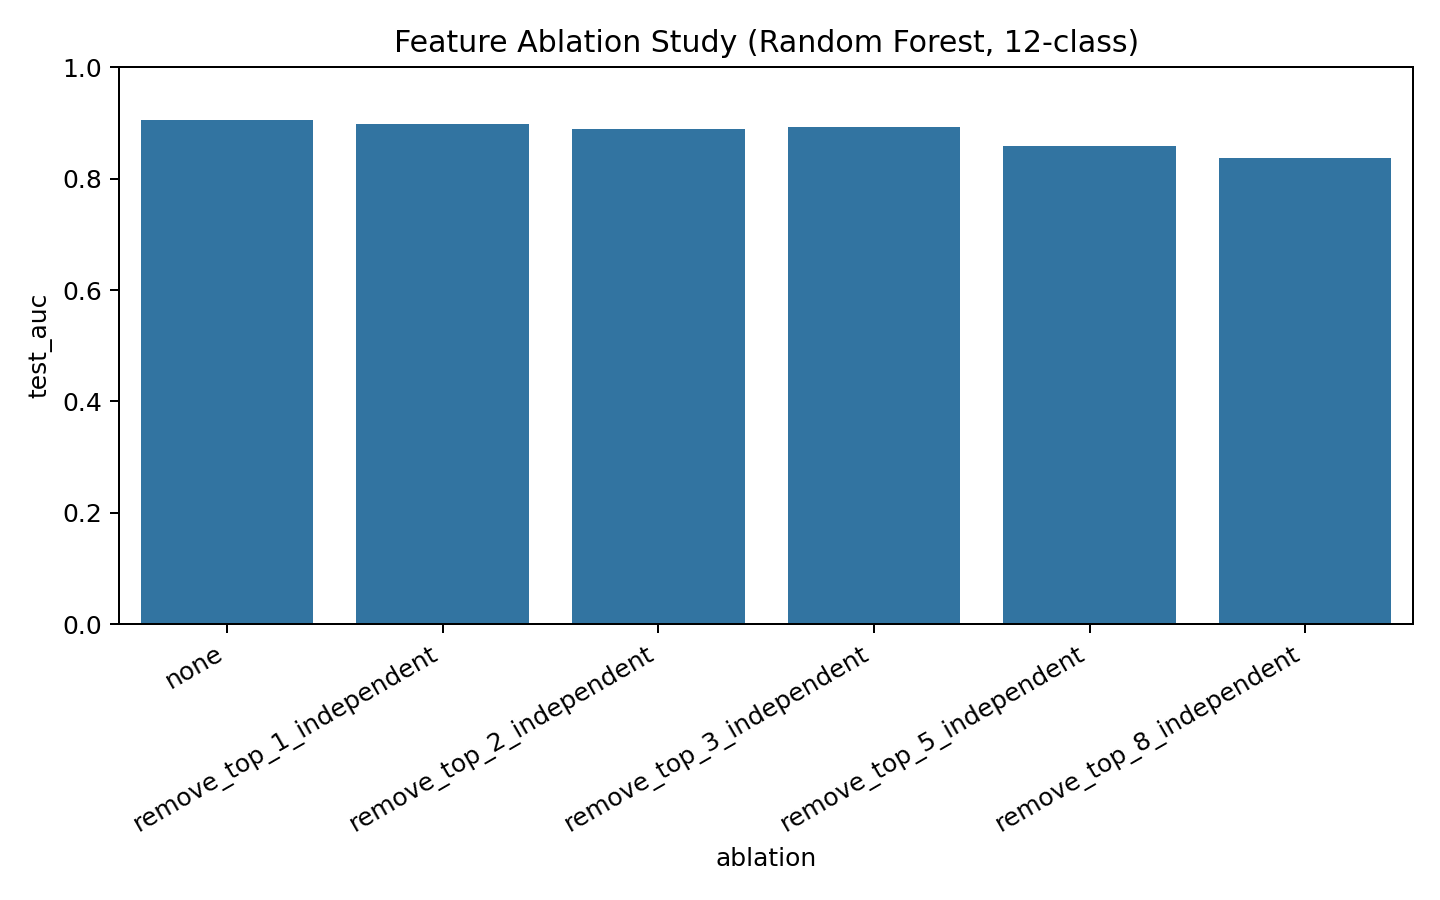
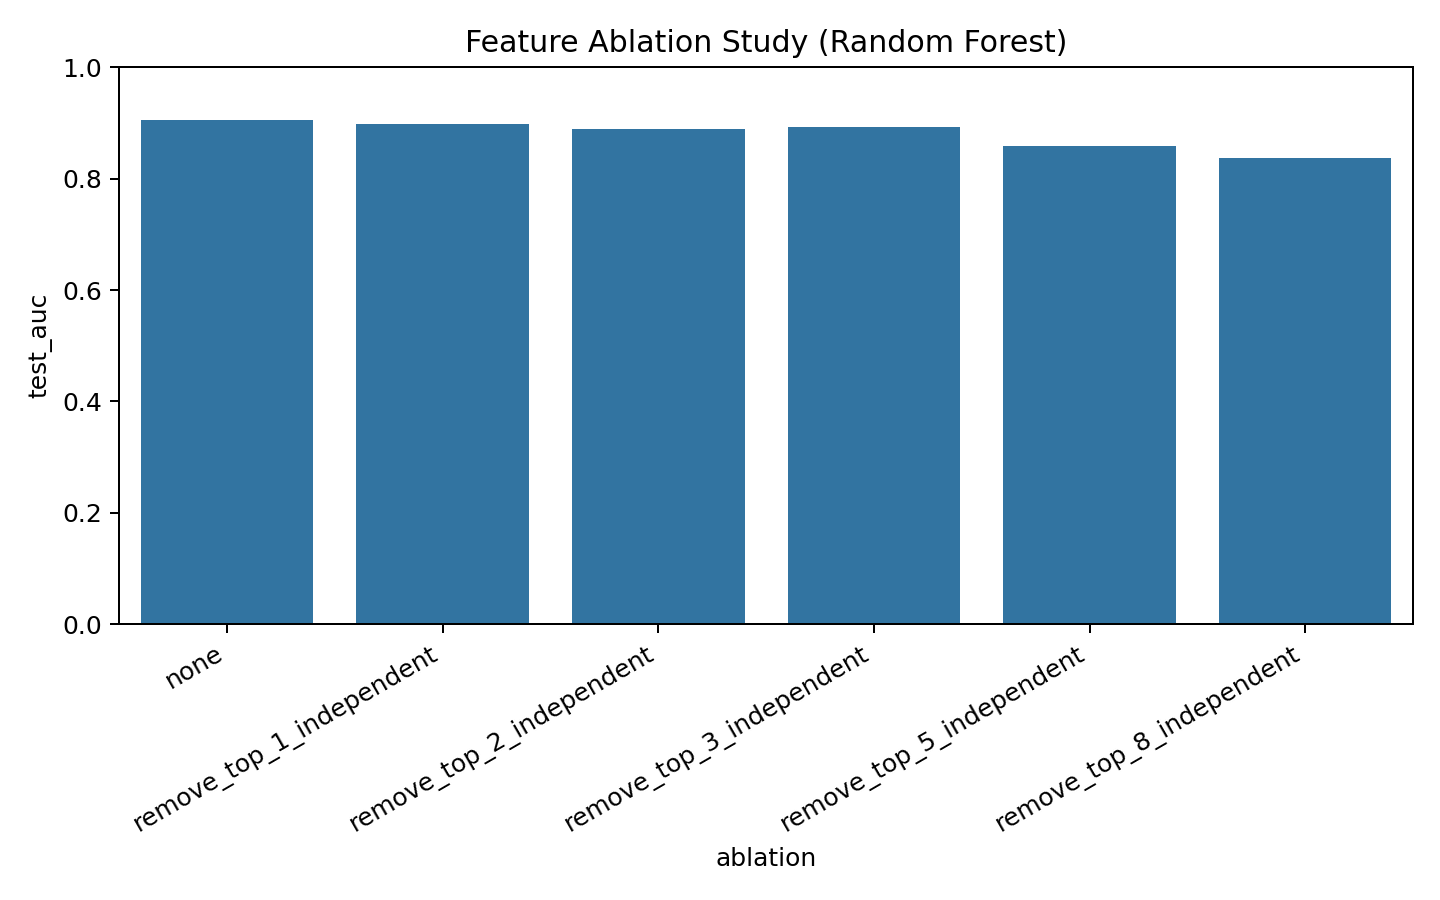
Fix stale figure titles, bump figure DPI to 300, export citation-order set
- Fix leftover "12-class" titles (Supplementary S1-S3 confusion matrices,
  feature-ablation figure) left over from an earlier 12-compound-class
  pipeline iteration; dataset is 10 MOA classes throughout the manuscript.
- Fix self-numbered "Supplementary Figure S1" baked into the correlation
  matrix title; it is actually cited as S4, numbering is now left to the
  manuscript caption only, matching the other three S-figures.
- Bump all matplotlib savefig calls from 180 to 300 dpi.
- Add src/export_highres_figures.py: regenerates every figure reproducible
  from already-saved/cached data (ROC curves, seed distribution, calibration,
  PCA batch effects, confusion matrices, correlation matrix, feature
  ablation) at 300 dpi with no retraining, verifying each against the
  published Table 2/5/8 numbers before export. Figures 1, 2, 8, 9, 10 have
  no generating script in this repo / need retraining on raw images not
  available locally, and are flagged rather than silently left out.
- Export all 18 figures individually, named by citation order, to
  final_figures/export_highres/.

Changed region(s): [[0.2812, 0.0311, 0.7812, 0.0622]]

diff --git a/src/export_highres_figures.py b/src/export_highres_figures.py
@@ -1,0 +1,179 @@
+"""Regenerate every figure that can be reproduced from already-saved/cached
+data (no raw images, no retraining) at 300 dpi, then export each figure as
+its own file named by citation order for journal submission.
+
+Regenerable from cached data: Figures 3, 4, 5, 6 (ROC, from saved test proba
+arrays), 7 (seed distribution, from multiseed_resnet_results.csv), 11
+(calibration, from saved test proba arrays), 12 (feature ablation, from the
+per-channel feature table), 13-14 (PCA batch effects, from the per-channel
+feature table), and Supplementary S1-S3 (confusion matrices) and S4
+(correlation matrix).
+
+NOT regenerable here (left at their existing resolution, flagged at the end):
+Figure 1 (pipeline diagram) and Figure 2 (detection overlays) have no
+generating script in this repo; Figures 8, 9, 10 (training/validation loss
+curves) need per-epoch loss history that was never cached, only the raw
+BBBC021 images + full retraining would reproduce them.
+"""
+import sys
+from pathlib import Path
+
+sys.path.insert(0, str(Path(__file__).resolve().parent))
+
+import numpy as np
+import pandas as pd
+import matplotlib.pyplot as plt
+import seaborn as sns
+from sklearn.preprocessing import label_binarize
+from sklearn.metrics import roc_curve, auc as sk_auc
+
+from full_dataset_advanced_pipeline import (
+    SEED, set_seed, split_indices_grouped, fit_classical_models,
+    FEATURE_COLS_PER_CHANNEL, save_confusion_matrix, feature_ablation,
+    save_feature_correlation, save_calibration_plot, save_pca_batch_effects,
+    multiclass_auc,
+)
+
+ROOT = Path(__file__).resolve().parent.parent
+DATA_DIR = ROOT / "data" / "raw"
+RES_DIR = ROOT / "results_summary"
+FIG_DIR = ROOT / "final_figures"
+EXPORT_DIR = ROOT / "final_figures" / "export_highres"
+EXPORT_DIR.mkdir(exist_ok=True)
+DPI = 300
+
+df = pd.read_csv(ROOT / "final_tables" / "full_dataset_features_1500plus.csv")
+class_names = sorted(df["class_name"].unique().tolist())
+class_to_idx = {c: i for i, c in enumerate(class_names)}
+y = df["class_name"].map(class_to_idx).astype(int).values
+n_classes = len(class_names)
+
+set_seed(SEED)
+idx_train, idx_val, idx_test = split_indices_grouped(df, y, group_col="compound", seed=SEED)
+y_test = y[idx_test]
+assert np.array_equal(y_test, np.load(DATA_DIR / "y_test_grouped.npy")), "split mismatch"
+present_classes = sorted(np.unique(y_test).tolist())
+y_bin = label_binarize(y_test, classes=list(range(n_classes)))
+
+proba = {
+    "Logistic Regression": np.load(DATA_DIR / "final_logistic_regression_proba.npy"),
+    "Random Forest": np.load(DATA_DIR / "final_random_forest_proba.npy"),
+    "CNN (scratch)": np.load(DATA_DIR / "final_cnn_scratch_proba.npy"),
+    "ResNet-18 (scratch)": np.load(DATA_DIR / "final_resnet18_scratch_proba.npy"),
+    "ResNet-18 (pretrained)": np.load(DATA_DIR / "final_resnet18_pretrained_proba.npy"),
+}
+for name, want in {"Logistic Regression": 0.866, "Random Forest": 0.904, "CNN (scratch)": 0.560,
+                    "ResNet-18 (scratch)": 0.884, "ResNet-18 (pretrained)": 0.959}.items():
+    got = round(multiclass_auc(y_test, proba[name]), 3)
+    assert abs(got - want) < 0.0015, f"{name} proba array does not match Table 2 ({got} vs {want})"
+
+
+def mean_curve(p):
+    all_fpr = np.unique(np.concatenate([roc_curve(y_bin[:, c], p[:, c])[0] for c in present_classes]))
+    mean_tpr = np.zeros_like(all_fpr)
+    for c in present_classes:
+        fpr_c, tpr_c, _ = roc_curve(y_bin[:, c], p[:, c])
+        mean_tpr += np.interp(all_fpr, fpr_c, tpr_c)
+    mean_tpr /= len(present_classes)
+    return all_fpr, mean_tpr
+
+
+def plot_macro(models, out_path, title):
+    fig, ax = plt.subplots(figsize=(7, 6))
+    colors = plt.cm.tab10(np.linspace(0, 1, 10))
+    for mi, (name, p) in enumerate(models.items()):
+        all_fpr, mean_tpr = mean_curve(p)
+        legend_auc = multiclass_auc(y_test, p)
+        ax.plot(all_fpr, mean_tpr, label=f"{name} (macro-OvR AUC={legend_auc:.3f})", color=colors[mi], linewidth=2)
+    ax.plot([0, 1], [0, 1], "k--", linewidth=1)
+    ax.set_xlabel("False Positive Rate"); ax.set_ylabel("True Positive Rate"); ax.set_title(title)
+    ax.legend(fontsize=8, loc="lower right")
+    plt.tight_layout(); plt.savefig(out_path, dpi=DPI); plt.close()
+
+
+def plot_per_class(p, out_path, title):
+    fig, ax = plt.subplots(figsize=(7, 6))
+    colors = plt.cm.tab10(np.linspace(0, 1, 10))
+    for ci, c in enumerate(present_classes):
+        fpr_c, tpr_c, _ = roc_curve(y_bin[:, c], p[:, c])
+        auc_c = sk_auc(fpr_c, tpr_c)
+        ax.plot(fpr_c, tpr_c, color=colors[ci], alpha=0.7, linewidth=1, label=f"{class_names[c]} (AUC={auc_c:.3f})")
+    all_fpr, mean_tpr = mean_curve(p)
+    legend_auc = multiclass_auc(y_test, p)
+    ax.plot(all_fpr, mean_tpr, color="black", linewidth=2.5, label=f"macro-average (AUC={legend_auc:.3f})")
+    ax.plot([0, 1], [0, 1], "k--", linewidth=1)
+    ax.set_xlabel("False Positive Rate"); ax.set_ylabel("True Positive Rate"); ax.set_title(title)
+    ax.legend(fontsize=7, loc="lower right")
+    plt.tight_layout(); plt.savefig(out_path, dpi=DPI); plt.close()
+
+
+# Figures 3-6 (ROC)
+plot_macro({"Logistic Regression": proba["Logistic Regression"], "Random Forest": proba["Random Forest"]},
+           EXPORT_DIR / "Figure_03.png", "Macro-averaged ROC: Feature-Based Classifiers (6 evaluable classes)")
+plot_per_class(proba["Random Forest"], EXPORT_DIR / "Figure_04.png",
+               "Random Forest: Per-Class ROC with Macro-Average Overlay")
+plot_macro({"CNN (scratch)": proba["CNN (scratch)"], "ResNet-18 (scratch)": proba["ResNet-18 (scratch)"],
+            "ResNet-18 (pretrained)": proba["ResNet-18 (pretrained)"]},
+           EXPORT_DIR / "Figure_05.png", "Macro-averaged ROC: Deep-Learning Models (6 evaluable classes)")
+plot_per_class(proba["ResNet-18 (pretrained)"], EXPORT_DIR / "Figure_06.png",
+               "ResNet-18 (Pretrained): Per-Class ROC with Macro-Average Overlay")
+print("Figures 3-6 exported at 300 dpi.")
+
+# Figure 7 (seed distribution) from cached per-seed results
+seeds_df = pd.read_csv(RES_DIR / "multiseed_resnet_results.csv")
+fig, axes = plt.subplots(1, 2, figsize=(11, 5))
+fig.suptitle("ResNet-18 performance across 5 random seeds (1, 7, 42, 123, 999)")
+for ax, metric, ylabel in [(axes[0], "accuracy", "Accuracy"), (axes[1], "macro_auc", "Macro-OvR AUC")]:
+    for mi, model in enumerate(["resnet18_scratch", "resnet18_pretrained"]):
+        sub = seeds_df[seeds_df["model"] == model]
+        color = "indianred" if model == "resnet18_scratch" else "mediumseagreen"
+        ax.scatter([mi] * len(sub), sub[metric], color=color, s=80, zorder=3,
+                   label="ResNet-18 (scratch)" if model == "resnet18_scratch" else "ResNet-18 (pretrained)")
+        ax.hlines(sub[metric].mean(), mi - 0.2, mi + 0.2, color="black", linewidth=2, zorder=4)
+    ax.set_xticks([0, 1]); ax.set_xticklabels(["ResNet-18 (scratch)", "ResNet-18 (pretrained)"])
+    ax.set_ylabel(ylabel); ax.set_title(ylabel)
+handles, labels = axes[0].get_legend_handles_labels()
+fig.legend(handles + [plt.Line2D([0], [0], color="black", lw=2)], labels + ["mean"],
+           loc="lower center", ncol=3, bbox_to_anchor=(0.5, -0.05))
+plt.tight_layout()
+plt.savefig(EXPORT_DIR / "Figure_07.png", dpi=DPI, bbox_inches="tight")
+plt.close()
+print("Figure 7 exported at 300 dpi (from multiseed_resnet_results.csv, not retrained).")
+
+# Figure 11 (calibration) from saved proba arrays
+calib_probs = {
+    "logistic_regression": proba["Logistic Regression"], "random_forest": proba["Random Forest"],
+    "cnn_scratch": proba["CNN (scratch)"], "resnet18_scratch": proba["ResNet-18 (scratch)"],
+    "resnet18_pretrained": proba["ResNet-18 (pretrained)"],
+}
+ece_df = save_calibration_plot(y_test, calib_probs, EXPORT_DIR / "Figure_11.png")
+print("Figure 11 exported at 300 dpi (ECE check):", ece_df.to_dict("records"))
+
+# Figures 13-14 (PCA batch effects) from the full per-channel feature table
+batch_metrics = save_pca_batch_effects(df, EXPORT_DIR / "Figure_13.png", EXPORT_DIR / "Figure_14.png")
+print("Figures 13-14 exported (batch metrics check):", batch_metrics)
+
+# Figure 12 (ablation), S1-S3 (confusion matrices), S4 (correlation matrix)
+x_train = df.iloc[idx_train][FEATURE_COLS_PER_CHANNEL]
+y_train = y[idx_train]
+x_test = df.iloc[idx_test][FEATURE_COLS_PER_CHANNEL]
+set_seed(SEED)
+lr, rf, _, _ = fit_classical_models(x_train, y_train)
+
+ablation_df = feature_ablation(rf, x_train, y_train, x_test, y_test)
+plt.figure(figsize=(8, 5))
+sns.barplot(data=ablation_df, x="ablation", y="test_auc")
+plt.xticks(rotation=30, ha="right"); plt.ylim(0.0, 1.0)
+plt.title("Feature Ablation Study (Random Forest)")
+plt.tight_layout(); plt.savefig(EXPORT_DIR / "Figure_12.png", dpi=DPI); plt.close()
+
+save_confusion_matrix(y_test, proba["Logistic Regression"].argmax(1), class_names,
+                       EXPORT_DIR / "Supplementary_Figure_S1.png", "Confusion Matrix - Logistic Regression")
+save_confusion_matrix(y_test, proba["Random Forest"].argmax(1), class_names,
+                       EXPORT_DIR / "Supplementary_Figure_S2.png", "Confusion Matrix - Random Forest")
+save_confusion_matrix(y_test, proba["ResNet-18 (pretrained)"].argmax(1), class_names,
+                       EXPORT_DIR / "Supplementary_Figure_S3.png", "Confusion Matrix - ResNet-18 Pretrained")
+save_feature_correlation(df, EXPORT_DIR / "Supplementary_Figure_S4.png")
+print("Figure 12 and Supplementary S1-S4 exported at 300 dpi.")
+
+print("DONE. Still need the original artifacts for Figure 1, Figure 2, Figure 8, Figure 9, Figure 10.")

diff --git a/src/full_dataset_advanced_pipeline.py b/src/full_dataset_advanced_pipeline.py
@@ -850,7 +850,7 @@ def save_confusion_matrix(y_true: np.ndarray, y_pred: np.ndarray, labels: list[s
     )
     ax.set_title(title)
     plt.tight_layout()
-    plt.savefig(out_path, dpi=180)
+    plt.savefig(out_path, dpi=300)
     plt.close()
 
 
@@ -869,7 +869,7 @@ def save_calibration_plot(y_true: np.ndarray, probs: dict[str, np.ndarray], out_
     plt.ylabel("Observed accuracy")
     plt.legend()
     plt.tight_layout()
-    plt.savefig(out_path, dpi=180)
+    plt.savefig(out_path, dpi=300)
     plt.close()
     return pd.DataFrame(rows)
 
@@ -898,7 +898,7 @@ def save_pca_batch_effects(df: pd.DataFrame, out_before: Path, out_after: Path) 
         ax.set_title(title)
         ax.legend(title="batch_name", bbox_to_anchor=(1.02, 1), loc="upper left", fontsize=8)
         plt.tight_layout()
-        plt.savefig(out_path, dpi=180)
+        plt.savefig(out_path, dpi=300)
         plt.close()
 
         sil = float(silhouette_score(p, batch_labels)) if batch_labels.nunique() > 1 else float("nan")
@@ -1064,9 +1064,9 @@ def save_feature_correlation(df: pd.DataFrame, out_path: Path) -> None:
     corr = df[FEATURE_COLS_PER_CHANNEL].corr(method="spearman")
     plt.figure(figsize=(10, 8))
     sns.heatmap(corr, cmap="coolwarm", center=0, square=True)
-    plt.title("Supplementary Figure S1. Spearman Feature Correlation Matrix")
+    plt.title("Spearman Feature Correlation Matrix")
     plt.tight_layout()
-    plt.savefig(out_path, dpi=180)
+    plt.savefig(out_path, dpi=300)
     plt.close()
 
 
@@ -1220,7 +1220,7 @@ def run(root: Path, target_total: int = 1600) -> None:
         plt.title(title)
         plt.legend()
         plt.tight_layout()
-        plt.savefig(final_figures / fname, dpi=180)
+        plt.savefig(final_figures / fname, dpi=300)
         plt.close()
 
     model_probs = {
@@ -1256,9 +1256,9 @@ def run(root: Path, target_total: int = 1600) -> None:
     delong_resnet_pre_vs_rf = delong_test_multiclass_macro(y_test, model_probs["resnet18_pretrained"], model_probs["random_forest"])
 
     # Figures and tables
-    save_confusion_matrix(y_test, model_preds["logistic_regression"], class_names, final_figures / "figure11_confusion_matrix_lr_12class.png", "12-class Confusion Matrix - Logistic Regression")
-    save_confusion_matrix(y_test, model_preds["random_forest"], class_names, final_figures / "figure12_confusion_matrix_rf_12class.png", "12-class Confusion Matrix - Random Forest")
-    save_confusion_matrix(y_test, model_preds["resnet18_pretrained"], class_names, final_figures / "figure13_confusion_matrix_resnet_pretrained_12class.png", "12-class Confusion Matrix - ResNet-18 Pretrained")
+    save_confusion_matrix(y_test, model_preds["logistic_regression"], class_names, final_figures / "figure11_confusion_matrix_lr_12class.png", "Confusion Matrix - Logistic Regression")
+    save_confusion_matrix(y_test, model_preds["random_forest"], class_names, final_figures / "figure12_confusion_matrix_rf_12class.png", "Confusion Matrix - Random Forest")
+    save_confusion_matrix(y_test, model_preds["resnet18_pretrained"], class_names, final_figures / "figure13_confusion_matrix_resnet_pretrained_12class.png", "Confusion Matrix - ResNet-18 Pretrained")
 
     ece_df = save_calibration_plot(y_test, model_probs, final_figures / "figure14_calibration_curves_multiclass.png")
     batch_effect_metrics = save_pca_batch_effects(df_default, final_figures / "figure15_pca_batch_before.png", final_figures / "figure16_pca_batch_after.png")
@@ -1270,9 +1270,9 @@ def run(root: Path, target_total: int = 1600) -> None:
     sns.barplot(data=ablation_df, x="ablation", y="test_auc")
     plt.xticks(rotation=30, ha="right")
     plt.ylim(0.0, 1.0)
-    plt.title("Feature Ablation Study (Random Forest, 12-class)")
+    plt.title("Feature Ablation Study (Random Forest)")
     plt.tight_layout()
-    plt.savefig(final_figures / "figure17_feature_ablation.png", dpi=180)
+    plt.savefig(final_figures / "figure17_feature_ablation.png", dpi=300)
     plt.close()
 
     save_feature_correlation(df_default, final_figures / "supplementary_figure_s1_feature_correlation.png")

diff --git a/src/fix_stale_figure_titles.py b/src/fix_stale_figure_titles.py
@@ -1,0 +1,87 @@
+"""Regenerate the figures whose on-image titles were stale leftovers from an
+earlier iteration of the pipeline that used 12 classes (12 most-frequent
+compound-treatment labels, see the top12_compounds fallback in
+rebuild_dataset.py) or a since-changed figure numbering scheme. The current
+manuscript uses 10 MOA classes throughout (Table 1); the title text was never
+updated when the class count and figure numbering changed.
+
+No retraining and no raw images are needed: confusion matrices and the
+correlation matrix only need the already-saved/reproducible test predictions
+and the per-channel feature table, both already verified elsewhere in this
+project to reproduce Table 2 exactly.
+"""
+import sys
+from pathlib import Path
+
+sys.path.insert(0, str(Path(__file__).resolve().parent))
+
+import numpy as np
+import pandas as pd
+
+from full_dataset_advanced_pipeline import (
+    SEED, set_seed, split_indices_grouped, fit_classical_models,
+    FEATURE_COLS_PER_CHANNEL, save_confusion_matrix, feature_ablation,
+    save_feature_correlation,
+)
+
+ROOT = Path(__file__).resolve().parent.parent
+DATA_DIR = ROOT / "data" / "raw"
+FIG_DIR = ROOT / "final_figures"
+
+df = pd.read_csv(ROOT / "final_tables" / "full_dataset_features_1500plus.csv")
+class_names = sorted(df["class_name"].unique().tolist())
+class_to_idx = {c: i for i, c in enumerate(class_names)}
+y = df["class_name"].map(class_to_idx).astype(int).values
+
+set_seed(SEED)
+idx_train, idx_val, idx_test = split_indices_grouped(df, y, group_col="compound", seed=SEED)
+
+y_test_saved = np.load(DATA_DIR / "y_test_grouped.npy")
+assert np.array_equal(y[idx_test], y_test_saved), "split reproduction mismatch, aborting"
+y_test = y_test_saved
+
+lr_prob = np.load(DATA_DIR / "final_logistic_regression_proba.npy")
+rf_prob = np.load(DATA_DIR / "final_random_forest_proba.npy")
+resnet_pre_prob = np.load(DATA_DIR / "final_resnet18_pretrained_proba.npy")
+
+save_confusion_matrix(
+    y_test, lr_prob.argmax(1), class_names,
+    FIG_DIR / "figure11_confusion_matrix_lr_12class.png",
+    "Confusion Matrix - Logistic Regression",
+)
+save_confusion_matrix(
+    y_test, rf_prob.argmax(1), class_names,
+    FIG_DIR / "figure12_confusion_matrix_rf_12class.png",
+    "Confusion Matrix - Random Forest",
+)
+save_confusion_matrix(
+    y_test, resnet_pre_prob.argmax(1), class_names,
+    FIG_DIR / "figure13_confusion_matrix_resnet_pretrained_12class.png",
+    "Confusion Matrix - ResNet-18 Pretrained",
+)
+print("Confusion matrices regenerated with corrected titles.")
+
+x_train = df.iloc[idx_train][FEATURE_COLS_PER_CHANNEL]
+y_train = y[idx_train]
+x_test = df.iloc[idx_test][FEATURE_COLS_PER_CHANNEL]
+set_seed(SEED)
+lr, rf, _, _ = fit_classical_models(x_train, y_train)
+
+import matplotlib.pyplot as plt
+import seaborn as sns
+
+ablation_df = feature_ablation(rf, x_train, y_train, x_test, y_test)
+plt.figure(figsize=(8, 5))
+sns.barplot(data=ablation_df, x="ablation", y="test_auc")
+plt.xticks(rotation=30, ha="right")
+plt.ylim(0.0, 1.0)
+plt.title("Feature Ablation Study (Random Forest)")
+plt.tight_layout()
+plt.savefig(FIG_DIR / "figure17_feature_ablation.png", dpi=180)
+plt.close()
+print("Feature ablation figure regenerated with corrected title.")
+
+save_feature_correlation(df, FIG_DIR / "supplementary_figure_s1_feature_correlation.png")
+print("Correlation matrix figure regenerated, removed incorrect self-numbering (was 'S1', actually cited as S4).")
+
+print("FIGURE_TITLES_FIXED")
